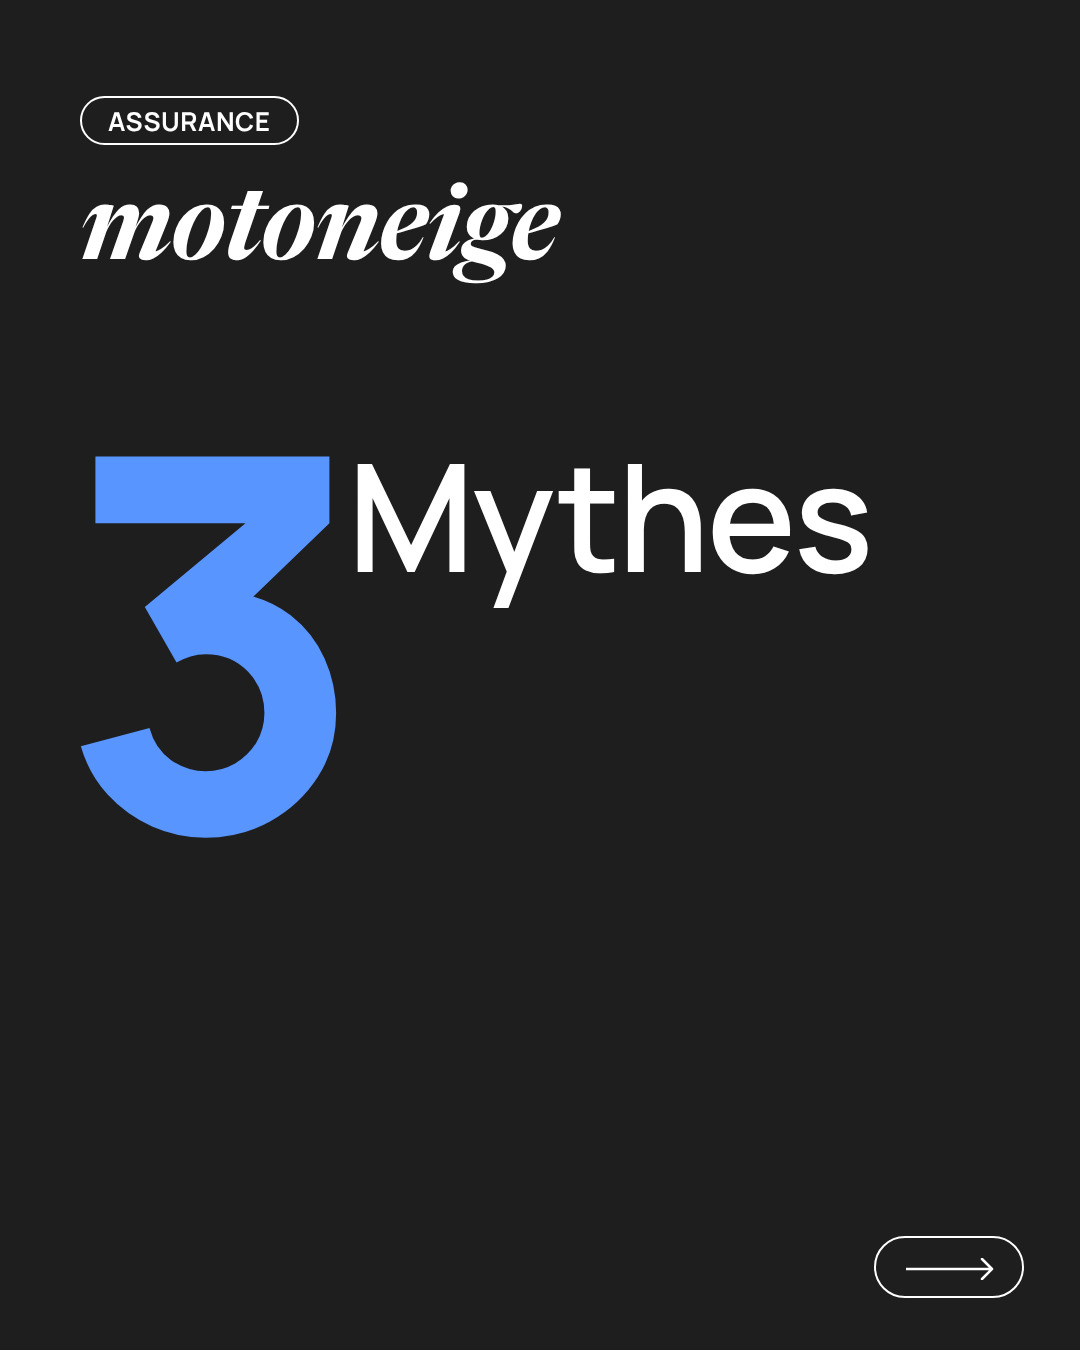
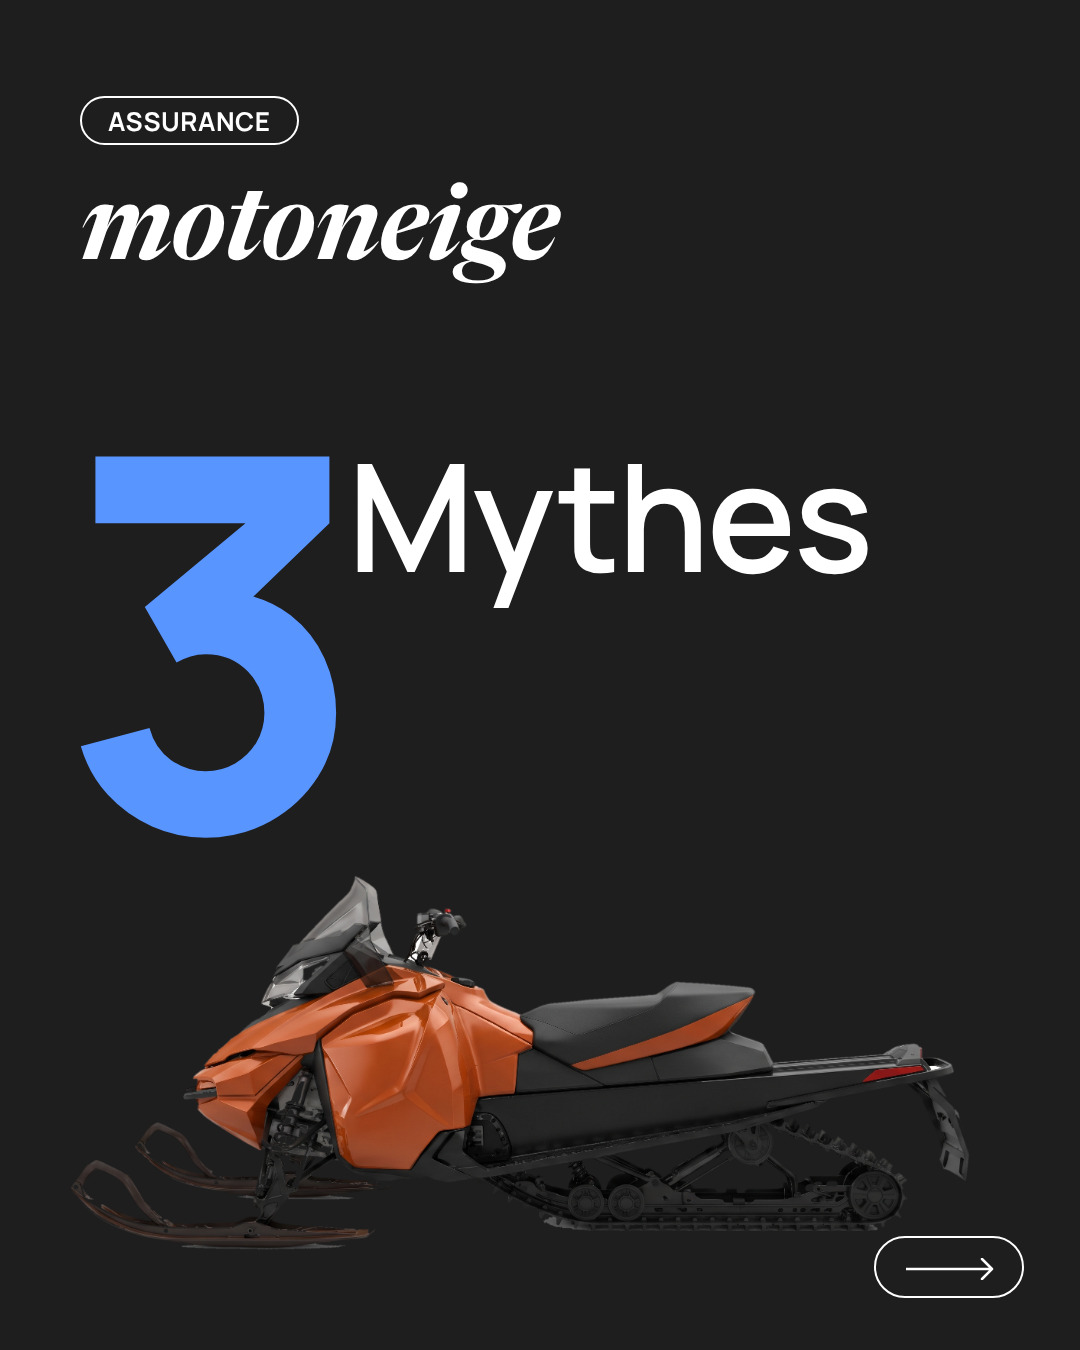
Mythes cover: optional cutout image; add snowmobile to mythes-motoneige cover (2026-11-15)
Claude-Session: https://claude.ai/code/session_01ViamcawXa3FJGZMtToFPMn

Changed region(s): [[0.1833, 0.6533, 0.9167, 0.8711], [0.0611, 0.84, 0.3361, 0.9333]]

diff --git a/engine/render_image.py b/engine/render_image.py
@@ -13,7 +13,8 @@ Templates (each item has "template", "name" and its own fields):
   vrai_faux  2 slides: question (white, giant quotes, charcoal card) and verdict
              fields: label (pill, e.g. "ASSURANCE AUTO"), statement, verdict ("vrai"|"faux"), explanation (list of lines, HTML ok)
   mythes     cover + one slide per myth
-             fields: product (lowercase, e.g. "auto"), myths: [{"statement": html, "verdict": "faux"|"vrai", "explanation": [p, p]}]
+             fields: product (lowercase, e.g. "auto"), myths: [{"statement": html, "verdict": "faux"|"vrai", "explanation": [p, p]}],
+                     cover_image (optional transparent PNG cutout under the big number): {"src", "left", "top", "width"} in px
   cta        closing slide: headline (HTML), subline, url_pill (e.g. "comparassurance.ca"), format
   text_card  bold statement on blue-royal with the C (no photo): kicker, headline (HTML), subline, format
 
@@ -137,6 +138,13 @@ def vrai_faux(it):
 
 
 # ---------------------------------------------------------------- mythes
+def _cover_img(ci):
+    if not ci:
+        return ""
+    return (f'<img src="file://{Path(ci["src"]).resolve()}" style="position:absolute;left:{ci.get("left", 80)}px;'
+            f'top:{ci.get("top", 860)}px;width:{ci.get("width", 900)}px;height:auto">')
+
+
 def mythes(it):
     W, H = FORMATS["4x5"]
     myths = it["myths"]
@@ -158,7 +166,7 @@ def mythes(it):
     out = []
     cover = f"""<div class="top">{_pill('Assurance')}<h3><em>{it['product']}</em></h3></div>
 <div class="big"><div class="num">{len(myths)}</div><div class="word">Mythes</div></div>
-{f'<div class="cover-sub">{it["cover_subline"]}</div>' if it.get('cover_subline') else ''}{ARROW}"""
+{_cover_img(it.get('cover_image'))}{f'<div class="cover-sub">{it["cover_subline"]}</div>' if it.get('cover_subline') else ''}{ARROW}"""
     out.append((f"{n}-0", W, H, _page(W, H, cover, css)))
     for i, m in enumerate(myths, 1):
         v = m.get("verdict", "faux").lower()
